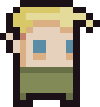
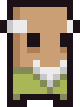
Новые текстуры для жертв и допиленный мясник

diff --git a/src/containers/mapContainer.jsx b/src/containers/mapContainer.jsx
@@ -14,6 +14,8 @@ class MapContainer extends Component {
     this.state = {
       hunting: false,
       autoHunting: false,
+      butcher: false,
+      butcherBooty: 0,
       timeToFinishHunting: 0,
       bloodCounter: 100, // кол-во крови
       victims: [CONFIG.defaultVictim],
@@ -31,16 +33,22 @@ class MapContainer extends Component {
 
   SuckBloodFromAllVictims = (click) => {
     let allVictimsDamage = 0;
-    let victims = this.state.victims.filter((item) => {
+    let victims = this.state.victims.filter((item, i) => {
       if (item.blood < this.state.victimsTypes['bloodPerClickType'+item.type]) { // если дамага больше, чем хп у жертвы
         allVictimsDamage = allVictimsDamage + item.blood;
-        this.state.victimMeat = this.state.victimMeat + item.meat;
+        this.setState((state) => ({
+          victimMeat: this.state.victimMeat + item.meat + this.state.butcherBooty,
+        }), () => {
+          // console.log(this.state.victimMeat);
+        });;
       } else {
         allVictimsDamage = allVictimsDamage + (click ? this.state.victimsTypes['bloodPerClickType'+item.type] : this.state.autoCollectBlood);
       }
       item.blood = item.blood - (click ? this.state.victimsTypes['bloodPerClickType'+item.type] : this.state.autoCollectBlood);
       if (item.blood === 0) {
-        this.state.victimMeat = this.state.victimMeat + item.meat;
+        this.setState((state) => ({ // добавить мясо 
+          victimMeat: this.state.victimMeat + item.meat + this.state.butcherBooty,
+        }));
       }
       return item.blood > 0;
     });
@@ -49,6 +57,7 @@ class MapContainer extends Component {
       bloodCounter: state.bloodCounter + allVictimsDamage,
     }));
   }
+
 
   // Функция охоты
   HandleGoHuntingClick = (notAutoHunting) => {
@@ -72,7 +81,7 @@ class MapContainer extends Component {
         this.setState({
           hunting: false,
           autoHunting: false,
-          victims: [...this.state.victims, {name: 'Вонючий Пётр', age: 24, blood: 200, type: 1, meat: 5,}],
+          victims: [...this.state.victims, {name: 'Вонючий Пётр', iconUrl: 'images/victims/victim-type-1.png', age: 24, blood: 200, type: 1, meat: 1,}],
         });
         return clearInterval(huntingTimer);
       }
@@ -112,6 +121,9 @@ class MapContainer extends Component {
     if (upgradeItem.type === 'autoHunting') {
       this.AutoHutnig(upgradeItem);
     }
+    if (upgradeItem.type === 'meatExtraction') {
+      this.MeatExtraction(upgradeItem);
+    }
   }
 
   // Функция апгрейда на увеличение добычи по клику
@@ -140,7 +152,7 @@ class MapContainer extends Component {
     }, upgradeItem.duration);
   }
 
-  // Функция автоохоты
+  // Функция апгрейда автоохоты
   AutoHutnig = (upgradeItem) => {
     this.setState((state) => ({
       bloodCounter: state.bloodCounter - upgradeItem.price,
@@ -151,6 +163,18 @@ class MapContainer extends Component {
     this.autoHutningTimer = setInterval(() => {
       this.HandleGoHuntingClick(false);
     }, upgradeItem.duration);
+  }
+
+  // Функция апгрейда мясника
+  MeatExtraction = (upgradeItem) => {
+    this.setState((state) => ({
+      bloodCounter: state.bloodCounter - upgradeItem.price,
+      butcher: true,
+      butcherBooty: state.butcherBooty + upgradeItem.butcherBooty,
+    }), () => {
+      this.updateUpgrades(upgradeItem);
+    });
+
   }
 
   // Функция обновления апгрейда

diff --git a/src/index.css b/src/index.css
@@ -242,7 +242,7 @@ code {
 }
 
 .victim__wrapper {
-  width: 100%;
+  width: 80%;
   height: 100%;
   display: flex;
   flex-direction: row;
@@ -263,9 +263,9 @@ code {
 .victim__man {
   width: 100px;
   height: 107px;
-  background-image: url(/images/victims/victim-type-1.png);
+  /* background-image: url(/images/victims/victim-type-1.png); */
   background-repeat: no-repeat;
-  background-position: 0 0px;
+  background-position: center bottom;
   position: relative;
   cursor: pointer;
 }
@@ -273,7 +273,7 @@ code {
 .victim__name {
   position: absolute;
   width: 150%;
-  bottom: -25%;
+  top: 100%;
   color: #ffffff;
   left: 50%;
   transform: translateX(-50%);
@@ -282,7 +282,8 @@ code {
 .sidebar-upgrades {
   color: #fff;
   height: 100%;
-  overflow-y: scroll;
+  /* overflow-y: scroll; */
+  padding-right: 10px;
 }
 
 .sidebar-upgrades-menu__name {
@@ -348,3 +349,64 @@ code {
   right: -22px;
   top: 0;
 }
+
+
+
+
+
+.rcs-custom-scroll {
+  min-height: 0;
+  min-width: 0; }
+  .rcs-custom-scroll .rcs-outer-container {
+    overflow: hidden; }
+    .rcs-custom-scroll .rcs-outer-container .rcs-positioning {
+      position: relative; }
+    .rcs-custom-scroll .rcs-outer-container:hover .rcs-custom-scrollbar {
+      opacity: 1;
+      transition-duration: 0.2s; }
+  .rcs-custom-scroll .rcs-inner-container {
+    overflow-x: hidden;
+    overflow-y: scroll;
+    -webkit-overflow-scrolling: touch; }
+    .rcs-custom-scroll .rcs-inner-container:after {
+      content: '';
+      position: absolute;
+      top: 0;
+      right: 0;
+      left: 0;
+      height: 0;
+      background-image: linear-gradient(to bottom, rgba(0, 0, 0, 0.2) 0%, rgba(0, 0, 0, 0.05) 60%, transparent 100%);
+      pointer-events: none;
+      transition: height 0.1s ease-in;
+      will-change: height; }
+    .rcs-custom-scroll .rcs-inner-container.rcs-content-scrolled:after {
+      height: 5px;
+      transition: height 0.15s ease-out; }
+  .rcs-custom-scroll.rcs-scroll-handle-dragged .rcs-inner-container {
+    user-select: none; }
+  .rcs-custom-scroll .rcs-custom-scrollbar {
+    position: absolute;
+    height: 100%;
+    width: 6px;
+    right: 3px;
+    opacity: 0;
+    z-index: 1;
+    transition: opacity 0.4s ease-out;
+    padding: 6px 0;
+    box-sizing: border-box;
+    will-change: opacity;
+    pointer-events: none; }
+    .rcs-custom-scroll .rcs-custom-scrollbar.rcs-custom-scrollbar-rtl {
+      right: auto;
+      left: 3px; }
+  .rcs-custom-scroll.rcs-scroll-handle-dragged .rcs-custom-scrollbar {
+    opacity: 1; }
+  .rcs-custom-scroll .rcs-custom-scroll-handle {
+    position: absolute;
+    width: 100%;
+    top: 0; }
+  .rcs-custom-scroll .rcs-inner-handle {
+    height: calc(100% - 12px);
+    margin-top: 6px;
+    background-color: rgba(78, 183, 245, 0.7);
+    border-radius: 3px; }

diff --git a/src/config/config.js b/src/config/config.js
@@ -1,10 +1,11 @@
 export const CONFIG = {
   defaultVictim: {
     name: 'Вонючий Билли', 
+    iconUrl: 'images/victims/victim-type-1.png',
     age: 26,
     blood: 2,
     type: 1,
-    meat: 5,
+    meat: 1,
   },
   globalUpgrades: [
     {
@@ -30,7 +31,7 @@ export const CONFIG = {
     },
     {
       id: 2,
-      name: 'Увеличенная добыча типа 1',
+      name: 'Увеличенная добыча(тип 1)',
       description: 'Увеличивает добычу крови с жертв типа 1',
       bloodPerTick: 6,
       iconUrl: 'images/upgrades/autocollect.png',
@@ -41,7 +42,7 @@ export const CONFIG = {
     },
     {
       id: 3,
-      name: 'Увеличенная добыча типа 2',
+      name: 'Увеличенная добыча(тип 2)',
       description: 'Увеличивает добычу крови с жертвы типа 2',
       bloodPerTick: 6,
       iconUrl: 'images/upgrades/autocollect.png',
@@ -49,6 +50,16 @@ export const CONFIG = {
       type: 'increaseClick',
       level: 1,
       forVictimType: 2,
+    },
+    {
+      id: 4,
+      name: 'Мясник',
+      description: 'Мясник рубит жертв на куски мяса',
+      iconUrl: 'images/upgrades/autocollect.png',
+      price: 100,
+      butcherBooty: 4,
+      type: 'meatExtraction',
+      level: 1,
     },
   ],
 }

diff --git a/src/components/map/globalUpgradesMenu.jsx b/src/components/map/globalUpgradesMenu.jsx
@@ -1,14 +1,19 @@
 import React from 'react';
 import Upgrade from './upgrade';
+import CustomScroll from 'react-custom-scroll';
 import { CONFIG } from '../../config/config';
 
 const GlobalUpgradesMenu = ({ UpgradeApply }) => {
   return(
     <div className="sidebar-upgrades-menu">
       <div className="sidebar-upgrades-menu__name"> Upgrades </div>
-      { CONFIG.globalUpgrades.map((item) => {
-        return <Upgrade key = { item.id } Item = { item } UpgradeApply = { UpgradeApply } />
-      }) }
+      <div className="sidebar-upgrades-menu__list">
+      <CustomScroll>
+        { CONFIG.globalUpgrades.map((item) => {
+          return <Upgrade key = { item.id } Item = { item } UpgradeApply = { UpgradeApply } />
+        }) }
+      </CustomScroll>
+      </div>
     </div>
   )
 }

diff --git a/src/components/map/victimSlot.jsx b/src/components/map/victimSlot.jsx
@@ -9,7 +9,7 @@ class VictimSlot extends Component {
     return(
       <div className="victim__slot">
         {this.props.Victim ? 
-        <div className="victim__man" data-key={ this.props.VictimIndex }>
+        <div className="victim__man" data-key={ this.props.VictimIndex } style={{backgroundImage: 'url(' + this.props.Victim.iconUrl + ')'}}>
           <span className="victim__name">
             { this.props.Victim.name }, { this.props.Victim.age }, { this.props.Victim.blood }
           </span>
